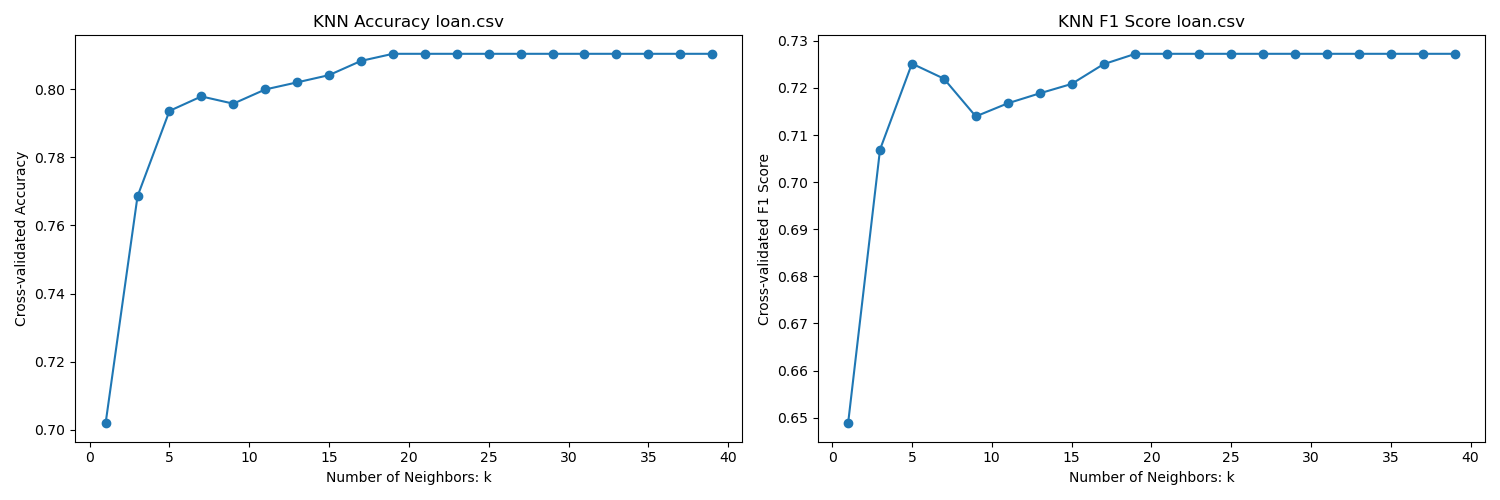
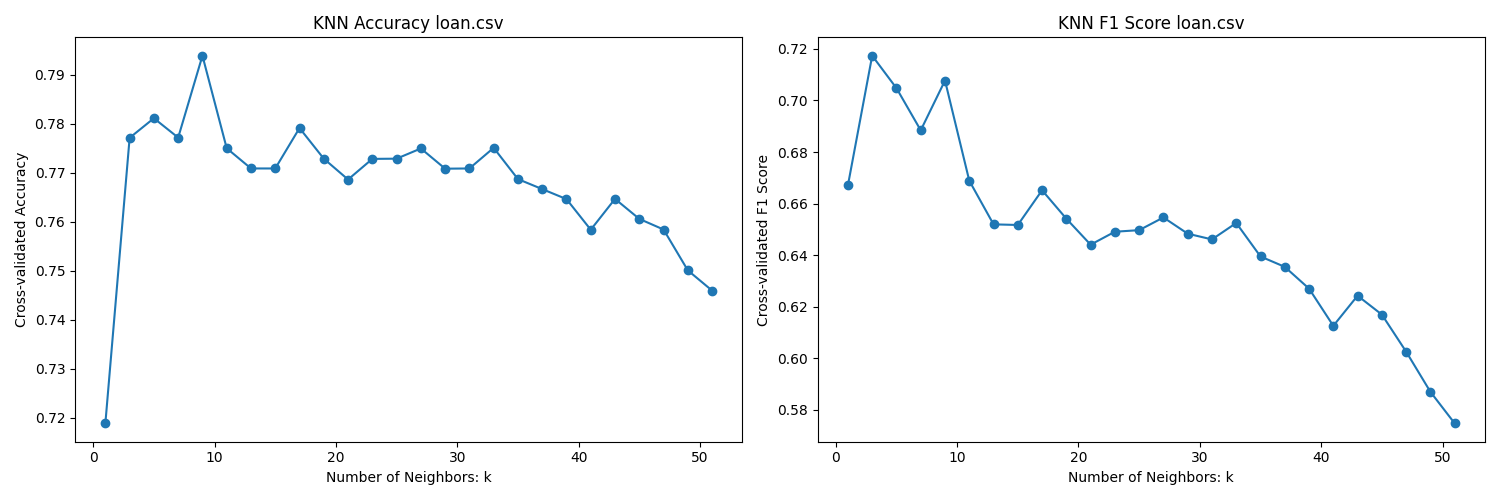
refractor knn

diff --git a/knn.py b/knn.py
@@ -4,167 +4,65 @@ import math
 import numpy as np
 from collections import defaultdict
 from matplotlib import pyplot as plt
-from sklearn import datasets
+from utils import convert_to_float, load_data, normalize, split_folds, split_train_test, eval, get_majority
+import sys
 
 
 def euclidean_distance(r1, r2):
-    return np.sqrt(np.sum((np.array(r1[:-1]) - np.array(r2[:-1])) ** 2))
+    r1 = np.array(r1, dtype=float)
+    r2 = np.array(r2, dtype=float)
+    return np.sqrt(np.sum((r1 - r2) ** 2))
 
 
-def find_k_nearest_neighbors(r, k, training_set):
-    distances = np.array([euclidean_distance(r, row) for row in training_set])
+def find_k_nearest_neighbors(r, k, training_X, training_Y):
+    distances = np.array([])
+    for i in range(len(training_X)):
+        distances = np.append(distances, euclidean_distance(r, training_X[i]))
     nearest_indices = np.argsort(distances)[:k]
-    return [training_set[i] for i in nearest_indices]
+
+    return [training_Y[i] for i in nearest_indices]
 
 
-# Ordinal encoding for categorical features
-
-def ordinal_encoding(categorical_indices, dataset):
-    dataset_copy = dataset.copy()
-    for i in categorical_indices:
-        curr_val = 0
-        value_map = dict()
-        for row in dataset_copy:
-            if row[i] not in value_map.keys():
-                row[i] = curr_val
-                value_map[row[i]] = curr_val
-                curr_val += 1
-            else:
-                row[i] = value_map[row[i]]
-    print(dataset_copy)
-    return dataset_copy
-
-
-def convert_to_float(item):
-    try:
-        return float(item)
-    except ValueError:
-        return item
+def train_knn(k_val, data, is_normalize):
+    # correct_predictions = 0
+    # tp = defaultdict(int)
+    # fp = defaultdict(int)
+    # fn = defaultdict(int)
+    (training_X, testing_X, training_y, testing_y) = data
+    y_pred = []
+    y_true = []
+    training_X = np.array(training_X, dtype=float)
+    testing_X = np.array(testing_X, dtype=float)
+    if is_normalize:
+        normalize(training_X)
+        normalize(testing_X)
+    for i in range(len(testing_X)):
+        neighbors = find_k_nearest_neighbors(
+            testing_X[i], k_val, training_X, training_y)
+        predicted_class = get_majority(neighbors)
+        y_pred.append(predicted_class)
+        y_true.append(testing_y[i])
+    return eval(y_true, y_pred)
 
 
-def load_data(filename):
-    data = []
-    labels = []
-    if (filename == 'loan.csv'):
-        with open('datasets/loan.csv', 'r') as file:
-            csvFile = csv.reader(file)
-            next(csvFile)  # Skip header
-            for line in csvFile:
-                features = [convert_to_float(item) for item in line[:-1]]
-                label = line[-1]
-                data.append(features + [label])
-
-        data = [row[1:] for row in data]
-        return ordinal_encoding([0, 1, 2, 3, 4, 9, 10], data)
-    elif (filename == 'titanic.csv'):
-        with open('datasets/titanic.csv', 'r') as file:
-            csvFile = csv.reader(file)
-            next(csvFile)  # Skip header
-            for line in csvFile:
-                features = [convert_to_float(item) for item in line[1:]]
-                label = line[0]
-                data.append(features + [label])
-        data = [row[:1] + row[2:] for row in data]
-        return ordinal_encoding([1], data)
-    else:
-        with open(f'datasets/{filename}', 'r') as file:
-            csvFile = csv.reader(file)
-            next(csvFile)  # Skip header
-            for line in csvFile:
-                features = [convert_to_float(item) for item in line[:-1]]
-                label = float(line[-1])
-                data.append(features + [label])
-
-        return ordinal_encoding([], data)
-
-
-def create_stratified_folds(data, k):
-    class_dict = defaultdict(list)
-    for item in data:
-        class_dict[item[-1]].append(item)
-
-    folds = [[] for _ in range(k)]
-    for _, items in class_dict.items():
-        np.random.shuffle(items)
-        for idx, item in enumerate(items):
-            folds[idx % k].append(item)
-
-    return folds
-
-
-def normalize_datasets(training_set, testing_set):
-    new_training = training_set.copy()
-    new_testing = testing_set.copy()
-    min_col = [0] * (len(training_set[0]) - 1)
-    max_col = [0] * (len(training_set[0]) - 1)
-    for i in range(len(min_col)):
-        min_col[i] = min([row[i] for row in training_set])
-        max_col[i] = max([row[i] for row in training_set])
-    for i in range(len(training_set)):
-        for j in range(len(training_set[0]) - 1):
-            new_training[i][j] = (new_training[i][j] - min_col[j]
-                                  ) / (max_col[j] - min_col[j]) if max_col[j] - min_col[j] != 0 else 0
-    for i in range(len(testing_set)):
-        for j in range(len(testing_set[0]) - 1):
-            new_testing[i][j] = (new_testing[i][j] - min_col[j]
-                                 ) / (max_col[j] - min_col[j]) if max_col[j] - min_col[j] != 0 else 0
-    return new_training, new_testing
-
-
-def train_knn(k, training_set, test_set, normalize):
-    correct_predictions = 0
-    tp = defaultdict(int)
-    fp = defaultdict(int)
-    fn = defaultdict(int)
-
-    # for label in labels:
-    #     tp[label] = 0
-    #     fp[label] = 0
-    #     tn[label] = 0
-    #     fn[label] = 0
-
-    if normalize:
-        training_set, test_set = normalize_datasets(training_set, test_set)
-    for test_instance in test_set:
-        neighbors = find_k_nearest_neighbors(test_instance, k, training_set)
-        predicted_class = max(set([neighbor[-1] for neighbor in neighbors]),
-                              key=[neighbor[-1] for neighbor in neighbors].count)
-        if predicted_class == test_instance[-1]:
-            correct_predictions += 1
-            tp[predicted_class] += 1
-        else:
-            fp[predicted_class] += 1
-            fn[test_instance[-1]] += 1
-
-    accuracy = correct_predictions / len(test_set)
-    f1_scores = []
-    # Confusion matrix
-    labels = set(tp.keys()).union(
-        fp.keys()).union(fp.keys())
-    for label in labels:
-        f1_scores.append(tp[label] / (tp[label] + 1 /
-                         2 * (fp[label] + fn[label])))
-
-    return accuracy, np.mean(f1_scores)
-
-
-def parallel_knn(k_values, folds, k, normalize=False):
+def parallel_knn(k_values, X, y, k, is_normalize=False):
     results = {k_val: {'accuracies': [], 'f1_scores': []}
                for k_val in k_values}
 
     for k_val in k_values:
+        folds = split_folds(y, k)
+
         with ThreadPoolExecutor(max_workers=5) as executor:
-            future_to_fold = {executor.submit(train_knn, k_val, [item for j in range(
-                k) if j != i for item in folds[j]], folds[i], normalize): i for i in range(k)}
+            future_to_fold = {executor.submit(
+                train_knn, k_val, split_train_test(X, y, folds, i), is_normalize): i for i in range(k)}
 
             for future in as_completed(future_to_fold):
                 fold_index = future_to_fold[future]
-                try:
-                    accuracy, f1_score = future.result()
-                    results[k_val]['accuracies'].append(accuracy)
-                    results[k_val]['f1_scores'].append(f1_score)
-                except Exception as e:
-                    print(f'Fold {fold_index} generated an exception: {e}')
+
+                train_results = future.result()
+                results[k_val]['accuracies'].append(
+                    train_results["accuracy"])
+                results[k_val]['f1_scores'].append(train_results["f1"])
 
         # Calculate mean accuracy for this k value
         results[k_val]['mean_accuracy'] = np.mean(results[k_val]['accuracies'])
@@ -173,40 +71,42 @@ def parallel_knn(k_values, folds, k, normalize=False):
     return results
 
 
-filename = 'loan.csv'
+def main(filename, is_normalize=False):
 
-data = []
-labels = []
+    X, y = load_data(filename, encode=True)
+    k = 10
+    k_values = range(1, 52, 2)
+    results = parallel_knn(k_values, X, y, k, is_normalize)
 
-if (filename == "titanic.csv"):
-    digits = datasets.load_digits()
-    data = digits.data
+    ks = list(k_values)
 
-else:
-    data = load_data(filename)
+    plt.figure(figsize=(15, 5))
+    plt.subplot(1, 2, 1)
+    plt.plot(ks, [results[k]['mean_accuracy'] for k in ks], marker='o')
+    plt.xlabel('Number of Neighbors: k')
+    plt.ylabel('Cross-validated Accuracy')
+    plt.title(f'KNN Accuracy {filename}')
+
+    plt.subplot(1, 2, 2)
+    plt.plot(ks, [results[k]['mean_f1_score'] for k in ks], marker='o')
+    plt.xlabel('Number of Neighbors: k')
+    plt.ylabel('Cross-validated F1 Score')
+    plt.title(f'KNN F1 Score {filename}')
+
+    plt.tight_layout()
+    plt.savefig(f'./figures/knn_{filename}.png')
 
 
-k = 10
-folds = create_stratified_folds(data, k)
-
-k_values = range(1, 40, 2)
-results = parallel_knn(k_values, folds, k, normalize=True)
-
-ks = list(k_values)
-
-
-plt.figure(figsize=(15, 5))
-plt.subplot(1, 2, 1)
-plt.plot(ks, [results[k]['mean_accuracy'] for k in ks], marker='o')
-plt.xlabel('Number of Neighbors: k')
-plt.ylabel('Cross-validated Accuracy')
-plt.title(f'KNN Accuracy {filename}')
-
-plt.subplot(1, 2, 2)
-plt.plot(ks, [results[k]['mean_f1_score'] for k in ks], marker='o')
-plt.xlabel('Number of Neighbors: k')
-plt.ylabel('Cross-validated F1 Score')
-plt.title(f'KNN F1 Score {filename}')
-
-plt.tight_layout()
-plt.savefig(f'./figures/knn_{filename}.png')
+if __name__ == '__main__':
+    if len(sys.argv) not in [2, 3]:
+        print("Usage: python main.py <filename> (optional: use flag --normalize to enable data normalization)")
+        sys.exit(1)
+    if len(sys.argv) == 3:
+        if sys.argv[2] == '--normalize':
+            main(sys.argv[1], is_normalize=True)
+        else:
+            print(
+                "Usage: python main.py <filename> (optional: use flag --normalize to enable data normalization)")
+        sys.exit(1)
+    else:
+        main(sys.argv[1])
